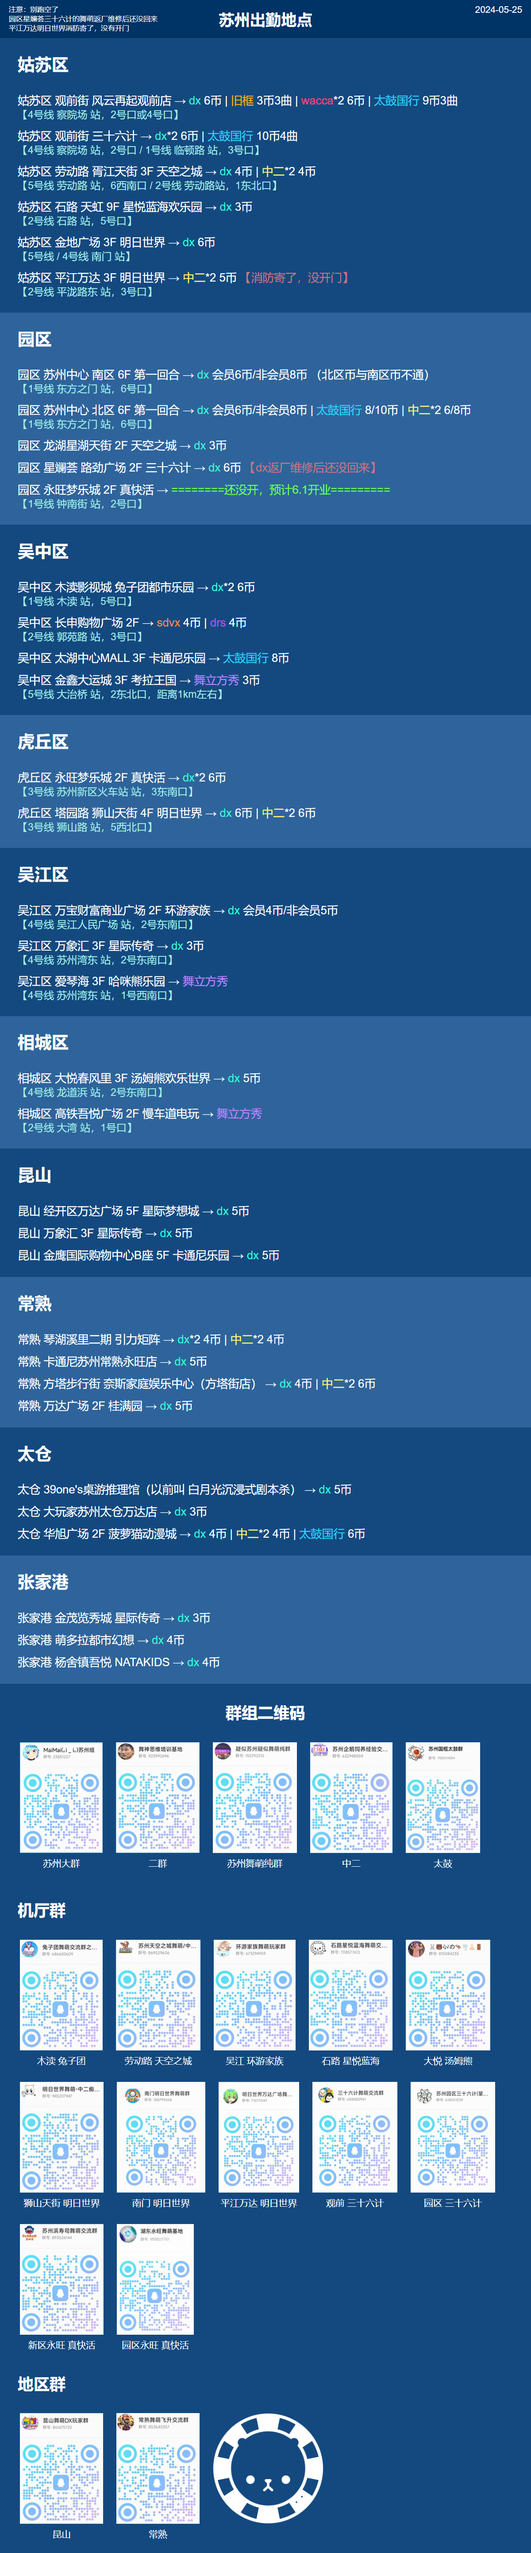
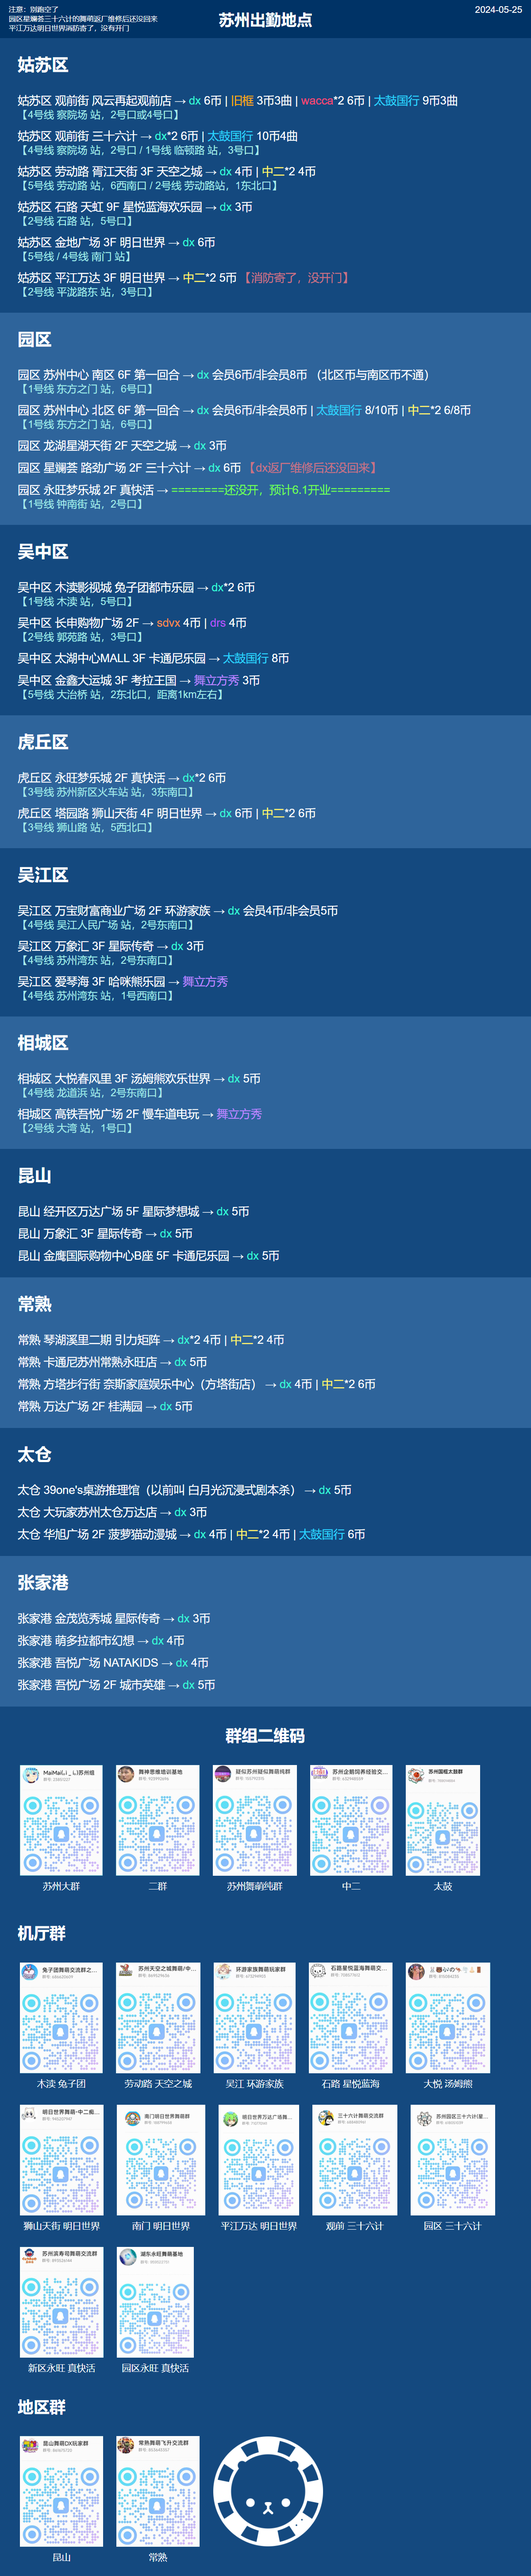
update

Changed region(s): [[0.0, 0.0, 1.0, 0.999], [0.7708, 0.1249, 0.8017, 0.1561], [0.5858, 0.0937, 0.6167, 0.1249]]

diff --git a/index.html b/index.html
@@ -329,7 +329,11 @@
   </div>
 	<br />
 	<div class="item">
-    张家港 杨舍镇吾悦 NATAKIDS → <span class="dx">dx</span> 4币 <br />
+    张家港 吾悦广场 NATAKIDS → <span class="dx">dx</span> 4币 <br />
+  </div>
+	<br />
+	<div class="item">
+    张家港 吾悦广场 2F 城市英雄 → <span class="dx">dx</span> 5币 <br />
   </div>
 </div>
 <!-- 更多区域... -->

diff --git a/苏州出勤地点.md b/苏州出勤地点.md
@@ -468,6 +468,16 @@
 
 # 张家港
 
+## 张家港-吾悅广场-2F-城市英雄
+
+地址: 张家港市吾悦广场2F城市英雄
+
+机厅配置：1台dx - 5币
+
+机台添加日期：[2024-5月中旬]
+
+营业时间：9:30 - 21:30
+
 ## 张家港-杨舍镇吾悅广场-NATAKIDS
 
 地址: 张家港市金港大道与南二环路交叉口西240米
